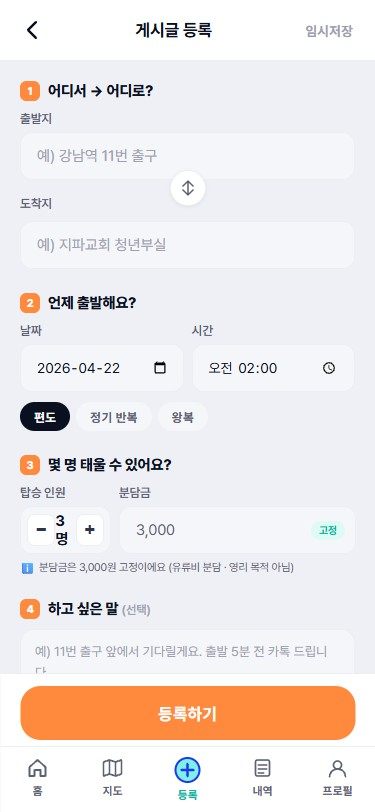
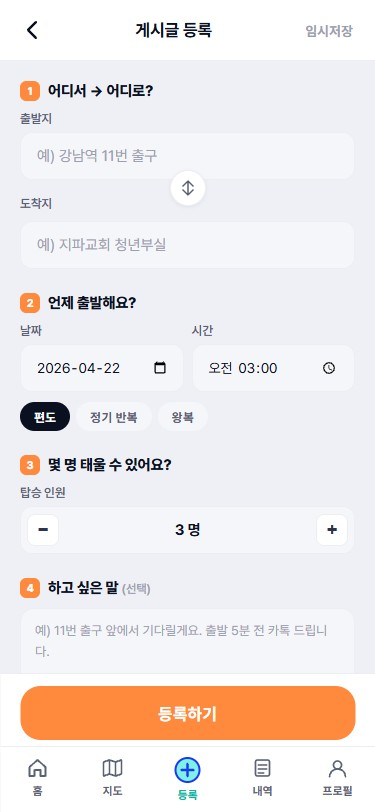
feat: 게시글 등록 화면 분담금 필드 제거

diff --git a/src/pages/RideNewPage.tsx b/src/pages/RideNewPage.tsx
@@ -185,38 +185,18 @@ export function RideNewPage() {
           </div>
         </section>
 
-        {/* ③ 인원 + 분담금 */}
+        {/* ③ 인원 */}
         <section className="write-section">
           <StepLabel num="3" color="var(--driver)">몇 명 태울 수 있어요?</StepLabel>
-          <div style={{ display: 'grid', gridTemplateColumns: '1fr 1fr', gap: 8 }}>
-            {/* 좌석 수 스피너 */}
-            <FieldBox label="탑승 인원">
-              <div className="write-input-wrap write-spinner-wrap">
-                <button className="write-spinner-btn tap"
-                  onClick={() => set('seats', Math.max(1, form.seats - 1))}>−</button>
-                <span className="write-spinner-val">{form.seats} 명</span>
-                <button className="write-spinner-btn tap"
-                  onClick={() => set('seats', Math.min(8, form.seats + 1))}>+</button>
-              </div>
-            </FieldBox>
-
-            {/* 분담금 고정 */}
-            <FieldBox label="분담금">
-              <div className="write-input-wrap" style={{ position: 'relative' }}>
-                <input className="write-input" value="3,000" readOnly
-                  style={{ color: 'var(--ink-60)', cursor: 'not-allowed' }} />
-                <span style={{
-                  position: 'absolute', right: 10,
-                  fontSize: 10.5, fontWeight: 700,
-                  background: '#DEFAF5', color: 'var(--mint-ink)',
-                  padding: '3px 8px', borderRadius: 999,
-                }}>고정</span>
-              </div>
-            </FieldBox>
-          </div>
-          <div style={{ fontSize: 11, color: 'var(--ink-60)', marginTop: 6, display: 'flex', alignItems: 'center', gap: 4 }}>
-            <span>ℹ</span> 분담금은 3,000원 고정이에요 (유류비 분담 · 영리 목적 아님)
-          </div>
+          <FieldBox label="탑승 인원">
+            <div className="write-input-wrap write-spinner-wrap">
+              <button className="write-spinner-btn tap"
+                onClick={() => set('seats', Math.max(1, form.seats - 1))}>−</button>
+              <span className="write-spinner-val">{form.seats} 명</span>
+              <button className="write-spinner-btn tap"
+                onClick={() => set('seats', Math.min(8, form.seats + 1))}>+</button>
+            </div>
+          </FieldBox>
         </section>
 
         {/* ④ 메모 */}
